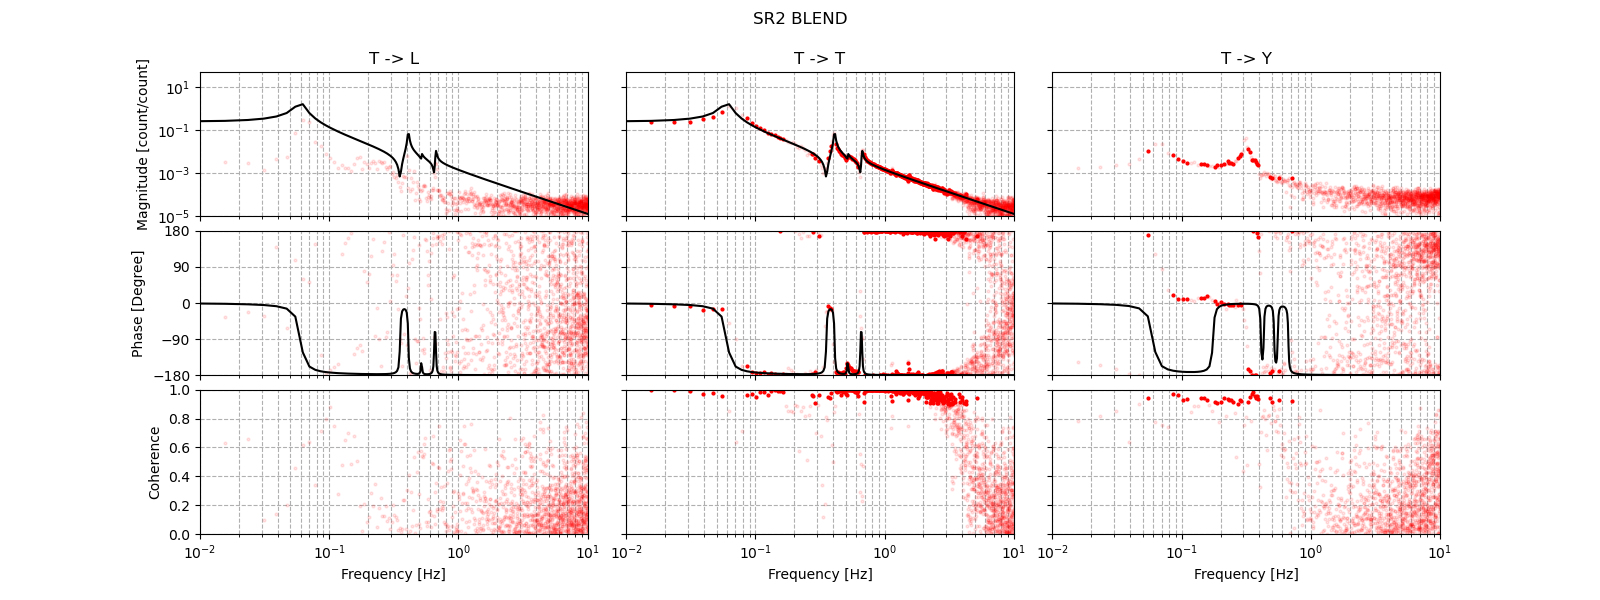
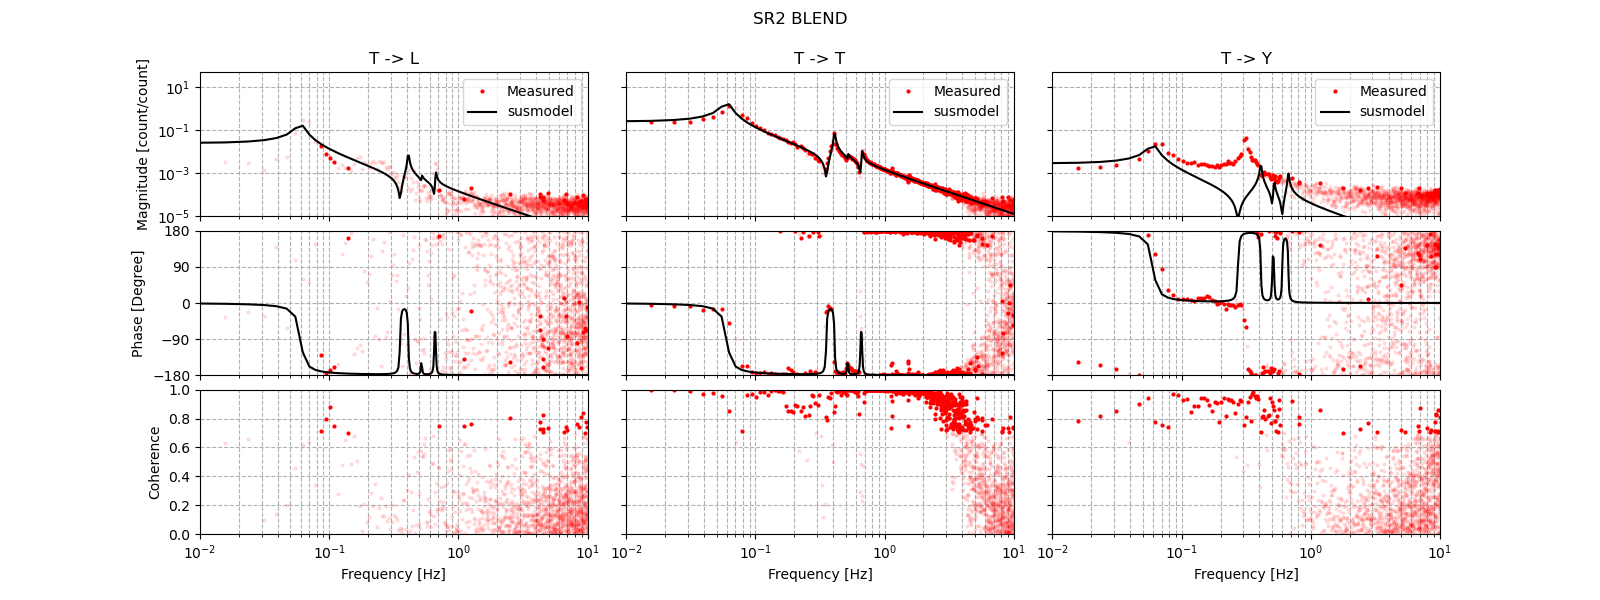
script: bug fix

diff --git a/common/scripts/healthcheck/sysid/tower/params.py b/common/scripts/healthcheck/sysid/tower/params.py
@@ -5,87 +5,11 @@ srm_w4,srm_Q4 = 0.32 ,50
 srm_w1,srm_Q1 = 0.41 ,50
 srm_w2,srm_Q2 = 0.52 ,50
 srm_w3,srm_Q3 = 0.67 ,50
-params = {'SRM_IP_BLEND_LVDTL_EXC':{'L':[[srm_w0, srm_Q0, 9.0e-4],               
-                               [srm_w1, srm_Q1, 3.0e-4],
-                               [srm_w2, srm_Q2, 2.0e-5],
-                               [srm_w3, srm_Q3, 9.0e-5]],
-                          'T':[[srm_w0, srm_Q0, 9.0e-5],
-                               [srm_w1, srm_Q1, 9.0e-6],
-                               [srm_w2, srm_Q2, 2.0e-6],
-                               [srm_w3, srm_Q3, 9.0e-6]],          
-                          'Y':[[srm_w0, srm_Q0,-9.0e-6],
-                               [srm_w1, srm_Q1, 3.0e-10],
-                               [srm_w2, srm_Q2, 2.0e-10],
-                               [srm_w3, srm_Q3, 9.0e-8]]},
-          'SRM_IP_BLEND_LVDTT_EXC':{'L':[[srm_w0, srm_Q0, 9.0e-5],
-                               [srm_w1, srm_Q1, 3.0e-5],
-                               [srm_w2, srm_Q2, 2.0e-6],
-                               [srm_w3, srm_Q3, 9.0e-6]],
-                          'T':[[srm_w0, srm_Q0, 9.0e-4],
-                               [srm_w1, srm_Q1, 3.0e-4],
-                               [srm_w2, srm_Q2, 2.0e-5],
-                               [srm_w3, srm_Q3, 9.0e-5]],          
-                          'Y':[[srm_w0, srm_Q0, -1.0e-5],
-                               [srm_w1, srm_Q1, -1.0e-5],
-                               [srm_w2, srm_Q2, -2.0e-6],
-                               [srm_w3, srm_Q3, -9.0e-6],
-                               [srm_w4, srm_Q4, -9.0e-5]]},                    
-          'SRM_IP_BLEND_LVDTY_EXC':{'L':[[srm_w0, srm_Q0, 9.0e-10],
-                               [srm_w1, srm_Q1, 3.0e-10],
-                               [srm_w2, srm_Q2, 2.0e-10],
-                               [srm_w3, srm_Q3, 9.0e-10]],
-                          'T':[[srm_w0, srm_Q0, 9.0e-10],
-                               [srm_w1, srm_Q1, 3.0e-10],
-                               [srm_w2, srm_Q2, 2.0e-10],
-                               [srm_w3, srm_Q3, 9.0e-10]],          
-                          'Y':[[srm_w0, srm_Q0, 1.0e-10],
-                               [srm_w1, srm_Q1, 1.0e-10],
-                               [srm_w2, srm_Q2, 2.0e-10],
-                               [srm_w3, srm_Q3, 9.0e-10],
-                               [srm_w4, srm_Q4, 1.0e-3]]},
-          'SR2_IP_BLEND_LVDTL_EXC':{'L':[[srm_w0, srm_Q0, 9.0e-4],               
-                               [srm_w1, srm_Q1, 3.0e-4],
-                               [srm_w2, srm_Q2, 2.0e-5],
-                               [srm_w3, srm_Q3, 9.0e-5]],
-                          'T':[[srm_w0, srm_Q0, 9.0e-5],
-                               [srm_w1, srm_Q1, 9.0e-6],
-                               [srm_w2, srm_Q2, 2.0e-6],
-                               [srm_w3, srm_Q3, 9.0e-6]],          
-                          'Y':[[srm_w0, srm_Q0,-9.0e-6],
-                               [srm_w1, srm_Q1, 3.0e-10],
-                               [srm_w2, srm_Q2, 2.0e-10],
-                               [srm_w3, srm_Q3, 9.0e-8]]},
-          'SR2_IP_BLEND_LVDTT_EXC':{'L':[[srm_w0, srm_Q0, 9.0e-5],
-                               [srm_w1, srm_Q1, 3.0e-5],
-                               [srm_w2, srm_Q2, 2.0e-6],
-                               [srm_w3, srm_Q3, 9.0e-6]],
-                          'T':[[srm_w0, srm_Q0, 9.0e-4],
-                               [srm_w1, srm_Q1, 3.0e-4],
-                               [srm_w2, srm_Q2, 2.0e-5],
-                               [srm_w3, srm_Q3, 9.0e-5]],          
-                          'Y':[[srm_w0, srm_Q0, -1.0e-5],
-                               [srm_w1, srm_Q1, -1.0e-5],
-                               [srm_w2, srm_Q2, -2.0e-6],
-                               [srm_w3, srm_Q3, -9.0e-6],
-                               [srm_w4, srm_Q4, -9.0e-5]]},                    
-          'SR2_IP_BLEND_LVDTY_EXC':{'L':[[srm_w0, srm_Q0, 9.0e-10],
-                               [srm_w1, srm_Q1, 3.0e-10],
-                               [srm_w2, srm_Q2, 2.0e-10],
-                               [srm_w3, srm_Q3, 9.0e-10]],
-                          'T':[[srm_w0, srm_Q0, 9.0e-10],
-                               [srm_w1, srm_Q1, 3.0e-10],
-                               [srm_w2, srm_Q2, 2.0e-10],
-                               [srm_w3, srm_Q3, 9.0e-10]],          
-                          'Y':[[srm_w0, srm_Q0, 1.0e-10],
-                               [srm_w1, srm_Q1, 1.0e-10],
-                               [srm_w2, srm_Q2, 2.0e-10],
-                               [srm_w3, srm_Q3, 9.0e-10],
-                               [srm_w4, srm_Q4, 1.0e-3]]},
-          'SRM_IP_IDAMP_L_EXC':{'L':[[srm_w0, srm_Q0, 9.0e-4],               
+params = {'SRM_IP_BLEND_L_EXC':{'L':[[srm_w0, srm_Q0, 9.0e-4],               
                                      [srm_w1, srm_Q1, 3.0e-4],
                                      [srm_w2, srm_Q2, 2.0e-5],
                                      [srm_w3, srm_Q3, 9.0e-5]],
-                                'T':[[srm_w0, srm_Q0, 2.0e-4],
+                                'T':[[srm_w0, srm_Q0, 9.0e-5],
                                      [srm_w1, srm_Q1, 9.0e-6],
                                      [srm_w2, srm_Q2, 2.0e-6],
                                      [srm_w3, srm_Q3, 9.0e-6]],          
@@ -93,7 +17,7 @@ params = {'SRM_IP_BLEND_LVDTL_EXC':{'L':[[srm_w0, srm_Q0, 9.0e-4],
                                      [srm_w1, srm_Q1, 3.0e-10],
                                      [srm_w2, srm_Q2, 2.0e-10],
                                      [srm_w3, srm_Q3, 9.0e-8]]},
-          'SRM_IP_IDAMP_T_EXC':{'L':[[srm_w0, srm_Q0, 9.0e-5],
+          'SRM_IP_BLEND_T_EXC':{'L':[[srm_w0, srm_Q0, 9.0e-5],
                                      [srm_w1, srm_Q1, 3.0e-5],
                                      [srm_w2, srm_Q2, 2.0e-6],
                                      [srm_w3, srm_Q3, 9.0e-6]],
@@ -106,7 +30,7 @@ params = {'SRM_IP_BLEND_LVDTL_EXC':{'L':[[srm_w0, srm_Q0, 9.0e-4],
                                      [srm_w2, srm_Q2, -2.0e-6],
                                      [srm_w3, srm_Q3, -9.0e-6],
                                      [srm_w4, srm_Q4, -9.0e-5]]},                    
-          'SRM_IP_IDAMP_Y_EXC':{'L':[[srm_w0, srm_Q0, 9.0e-10],
+          'SRM_IP_BLEND_Y_EXC':{'L':[[srm_w0, srm_Q0, 9.0e-10],
                                      [srm_w1, srm_Q1, 3.0e-10],
                                      [srm_w2, srm_Q2, 2.0e-10],
                                      [srm_w3, srm_Q3, 9.0e-10]],
@@ -119,6 +43,86 @@ params = {'SRM_IP_BLEND_LVDTL_EXC':{'L':[[srm_w0, srm_Q0, 9.0e-4],
                                      [srm_w2, srm_Q2, 2.0e-10],
                                      [srm_w3, srm_Q3, 9.0e-10],
                                      [srm_w4, srm_Q4, 1.0e-3]]},
+          'SR2_IP_BLEND_L_EXC':{'L':[[srm_w0, srm_Q0, 9.0e-4],               
+                                     [srm_w1, srm_Q1, 3.0e-4],
+                                     [srm_w2, srm_Q2, 2.0e-5],
+                                     [srm_w3, srm_Q3, 9.0e-5]],
+                                'T':[[srm_w0, srm_Q0, 9.0e-5],
+                                     [srm_w1, srm_Q1, 9.0e-6],
+                                     [srm_w2, srm_Q2, 2.0e-6],
+                                     [srm_w3, srm_Q3, 9.0e-6]],          
+                                'Y':[[srm_w0, srm_Q0,-9.0e-6],
+                                     [srm_w1, srm_Q1, 3.0e-10],
+                                     [srm_w2, srm_Q2, 2.0e-10],
+                                     [srm_w3, srm_Q3, 9.0e-8]]},
+          'SR2_IP_BLEND_T_EXC':{'L':[[srm_w0, srm_Q0, 9.0e-5],
+                                     [srm_w1, srm_Q1, 3.0e-5],
+                                     [srm_w2, srm_Q2, 2.0e-6],
+                                     [srm_w3, srm_Q3, 9.0e-6]],
+                                'T':[[srm_w0, srm_Q0, 9.0e-4],
+                                     [srm_w1, srm_Q1, 3.0e-4],
+                                     [srm_w2, srm_Q2, 2.0e-5],
+                                     [srm_w3, srm_Q3, 9.0e-5]],          
+                                'Y':[[srm_w0, srm_Q0, -1.0e-5],
+                                     [srm_w1, srm_Q1, -1.0e-5],
+                                     [srm_w2, srm_Q2, -2.0e-6],
+                                     [srm_w3, srm_Q3, -9.0e-6],
+                                     [srm_w4, srm_Q4, -9.0e-5]]},                    
+          'SR2_IP_BLEND_Y_EXC':{'L':[[srm_w0, srm_Q0, 9.0e-10],
+                                     [srm_w1, srm_Q1, 3.0e-10],
+                                     [srm_w2, srm_Q2, 2.0e-10],
+                                     [srm_w3, srm_Q3, 9.0e-10]],
+                                'T':[[srm_w0, srm_Q0, 9.0e-10],
+                                     [srm_w1, srm_Q1, 3.0e-10],
+                                     [srm_w2, srm_Q2, 2.0e-10],
+                                     [srm_w3, srm_Q3, 9.0e-10]],          
+                                'Y':[[srm_w0, srm_Q0, 1.0e-10],
+                                     [srm_w1, srm_Q1, 1.0e-10],
+                                     [srm_w2, srm_Q2, 2.0e-10],
+                                     [srm_w3, srm_Q3, 9.0e-10],
+                                     [srm_w4, srm_Q4, 1.0e-3]]},
+          'SRM_IP_IDAMP_L_EXC':{'L':[[srm_w0, srm_Q0, 9.0e-4],               
+                                     [srm_w1, srm_Q1, 3.0e-4],
+                                     [srm_w2, srm_Q2, 2.0e-5],
+                                     [srm_w3, srm_Q3, 9.0e-5]],
+                                'T':[[srm_w0, srm_Q0, 2.0e-4],
+                                     [srm_w1, srm_Q1, 9.0e-6],
+                                     [srm_w2, srm_Q2, 2.0e-6],
+                                     [srm_w3, srm_Q3, 9.0e-6]],          
+                                'Y':[[srm_w0, srm_Q0,-9.0e-6],
+                                     [srm_w1, srm_Q1, 3.0e-10],
+                                     [srm_w2, srm_Q2, 2.0e-10],
+                                     [srm_w3, srm_Q3, 9.0e-8]]},
+          'SRM_IP_IDAMP_T_EXC':{'L':[[srm_w0, srm_Q0, 4.0e-4],
+                                     [srm_w1, srm_Q1, 3.0e-5],
+                                     [srm_w2, srm_Q2, 2.0e-6],
+                                     [srm_w3, srm_Q3, 9.0e-6],
+                                     [srm_w4, srm_Q4, 1.0e-5]],                                
+                                'T':[[srm_w0, srm_Q0, 9.0e-4],
+                                     [srm_w1, srm_Q1, 3.0e-4],
+                                     [srm_w2, srm_Q2, 2.0e-5],
+                                     [srm_w3, srm_Q3, 9.0e-5],
+                                     [srm_w4, srm_Q4, 1.0e-5]],                                
+                                'Y':[[srm_w0, srm_Q0, -6.0e-5],
+                                     [srm_w1, srm_Q1, -1.0e-5],
+                                     [srm_w2, srm_Q2, +2.0e-6],
+                                     [srm_w3, srm_Q3, -3.0e-6],
+                                     [srm_w4, srm_Q4, +9.0e-5]]},                    
+          'SRM_IP_IDAMP_Y_EXC':{'L':[[srm_w0, srm_Q0, 9.0e-10],
+                                     [srm_w1, srm_Q1, 3.0e-10],
+                                     [srm_w2, srm_Q2, 2.0e-10],
+                                     [srm_w3, srm_Q3, 9.0e-10],
+                                     [srm_w4, srm_Q4, 1.0e-5]],
+                                'T':[[srm_w0, srm_Q0, 9.0e-10],
+                                     [srm_w1, srm_Q1, 3.0e-10],
+                                     [srm_w2, srm_Q2, 2.0e-10],
+                                     [srm_w3, srm_Q3, 9.0e-10],
+                                     [srm_w4, srm_Q4, 6.0e-5]],          
+                                'Y':[[srm_w0, srm_Q0, 1.0e-10],
+                                     [srm_w1, srm_Q1, 1.0e-10],
+                                     [srm_w2, srm_Q2, 2.0e-10],
+                                     [srm_w3, srm_Q3, 9.0e-10],
+                                     [srm_w4, srm_Q4, 1.5e-3]]},
           'SR2_IP_IDAMP_L_EXC':{'L':[[srm_w0, srm_Q0, 9.0e-4],               
                                      [srm_w1, srm_Q1, 3.0e-4],
                                      [srm_w2, srm_Q2, 2.0e-5],
@@ -145,17 +149,17 @@ params = {'SRM_IP_BLEND_LVDTL_EXC':{'L':[[srm_w0, srm_Q0, 9.0e-4],
                                      [srm_w3, srm_Q3, -9.0e-6],
                                      [srm_w4, srm_Q4, -9.0e-5]]},                    
           'SR2_IP_IDAMP_Y_EXC':{'L':[[srm_w0, srm_Q0, 9.0e-10],
-                                           [srm_w1, srm_Q1, 3.0e-10],
-                                           [srm_w2, srm_Q2, 2.0e-10],
-                                           [srm_w3, srm_Q3, 9.0e-10]],
-                                      'T':[[srm_w0, srm_Q0, 9.0e-10],
-                                           [srm_w1, srm_Q1, 3.0e-10],
-                                           [srm_w2, srm_Q2, 2.0e-10],
-                                           [srm_w3, srm_Q3, 9.0e-10]],          
-                                      'Y':[[srm_w0, srm_Q0, 1.0e-10],
-                                           [srm_w1, srm_Q1, 1.0e-10],
-                                           [srm_w2, srm_Q2, 2.0e-10],
-                                           [srm_w3, srm_Q3, 9.0e-10],
-                                           [srm_w4, srm_Q4, 1.0e-3]]}          
+                                     [srm_w1, srm_Q1, 3.0e-10],
+                                     [srm_w2, srm_Q2, 2.0e-10],
+                                     [srm_w3, srm_Q3, 9.0e-10]],
+                                'T':[[srm_w0, srm_Q0, 9.0e-10],
+                                     [srm_w1, srm_Q1, 3.0e-10],
+                                     [srm_w2, srm_Q2, 2.0e-10],
+                                     [srm_w3, srm_Q3, 9.0e-10]],          
+                                'Y':[[srm_w0, srm_Q0, 1.0e-10],
+                                     [srm_w1, srm_Q1, 1.0e-10],
+                                     [srm_w2, srm_Q2, 2.0e-10],
+                                     [srm_w3, srm_Q3, 9.0e-10],
+                                     [srm_w4, srm_Q4, 1.0e-3]]}          
           
 }

diff --git a/common/scripts/healthcheck/sysid/tower/plot.py b/common/scripts/healthcheck/sysid/tower/plot.py
@@ -41,18 +41,38 @@ def get_tf(_from,_to):
     chname_to = chname_to.format(optic2,stage2,func2,dof2)
     chname_from = chname_from.format(optic1,stage1,dof_exc)    
     return read_tf(fname,chname_to,chname_from)
-    
+
+def blend(lp='high'):
+    w0 = 0.5
+    f0 = w0/(2.0*np.pi)
+    #f0=w0
+    if lp=='high':
+        num = np.array([1,5*f0**1,10*f0**2,       0,      0,      0])*-1
+    else:
+        num = np.array([0,      0,       0,10*f0**3,5*f0**4,1*f0**5])
+    den =     np.array([1,5*f0**1,10*f0**2,10*f0**3,5*f0**4,1*f0**5])
+    blend = control.tf(num,den)
+    #control.bode(blend,Plot=True)
+    #plt.savefig('hoge.png')
+    return blend
 
 def get_fitted_tf(omega_measured,tf_measured,coh_measured,_exc,dof):
     _tf = control.tf(*zpk2tf([],[],0))
-    for i in range(4):
-        w0,Q0,k0 = params[_exc][dof][i]
-        __tf = control.tf(*zpk2tf([],p(w0,Q0),k0))
-        _tf += __tf
-    #
+    print(_exc,dof)    
+    for i in range(5):
+        try:
+            w0,Q0,k0 = params[_exc][dof][i]
+            __tf = control.tf(*zpk2tf([],p(w0,Q0),k0))
+            _tf += __tf            
+        except:
+            pass
+            #
+    if dof not in _exc:
+        _tf = _tf*(blend(lp='low')+blend(lp='high'))
+        #_tf = _tf*(blend(lp='low'))
     mag, phase, omega = _tf.freqresp(omega_measured)
     _w = omega
-    h = mag*np.exp(1j*phase)
+    h = mag*np.exp(1j*phase)#*np.exp(1j*10)
     h = np.squeeze(h)
     return _w,h
 
@@ -61,47 +81,53 @@ def plot(optic,func,exc):
     fig.suptitle('{0} {1}'.format(optic,func,exc))
     plt.subplots_adjust(wspace=0.1,hspace=0.1)
     for i,dof in enumerate(dofs):
-        if func=='BLEND':
-            _dof = 'LVDT'+dof
+        # ------------------------
+        if func=='BLEND': # Fix me
+            __dof = 'LVDT'+dof
         else:
-            _dof = dof
+            __dof = dof
+        # ------------------------
         w,tf, coh = get_tf('{0}_IP_TEST_{1}_EXC'.format(optic,
                                                         exc,func),
                            '{0}_IP_{2}_{1}_IN1'.format(optic,
-                                                       _dof,func))
+                                                       __dof,func))
         w,hor1, coh = get_tf('{0}_IP_TEST_{1}_EXC'.format(optic,
                                                           exc,func),
                              '{0}_IP_{2}_{1}_IN1'.format(optic,
-                                                         _dof,func))
+                                                         __dof,func))
         _w,tf_fit = get_fitted_tf(w,tf,coh,
                                   '{0}_IP_{2}_{1}_EXC'.format(
-                                      optic,_dof,func),dof)
+                                      optic,exc,func),dof)
         _w,h = get_fitted_tf(w,hor1,coh,
                              '{0}_IP_{2}_{1}_EXC'.format(
-                                 optic,_dof,func),dof)
-        idx = np.where(coh>0.9)
-        _idx = np.where(coh<0.9)        
-        ax[0][i].loglog(w[idx],np.abs(hor1[idx]),'ro',markersize=2)
+                                 optic,exc,func),dof)
+        idx = np.where(coh>0.7)
+        _idx = np.where(coh<0.7)        
+        ax[0][i].loglog(w[idx],np.abs(hor1[idx]),'ro',markersize=2,
+                        label='Measured')
         ax[0][i].loglog(w[_idx],np.abs(hor1[_idx]),'ro',alpha=0.1,
                         markersize=2)
-        ax[0][i].loglog(_w,np.abs(h),'k')
+        ax[0][i].loglog(_w,np.abs(h),'k',label='susmodel')
         ax[0][i].set_ylim(1e-5,5e-1)
         ax[0][i].set_ylim(1e-5,5e1)        
         ax[0][i].set_title('{0} -> {1}'.format(exc,dof))
         ax[1][i].semilogx(w[idx],np.rad2deg(np.angle(hor1[idx]))*-1,
-                          'ro',markersize=2)
+                          'ro',markersize=2,label='Measured')
         ax[1][i].semilogx(w[_idx],np.rad2deg(np.angle(hor1[_idx]))*-1,
                           'ro',alpha=0.1,markersize=2)        
         # -1 comes from dtt2hdf's bug???    
-        ax[1][i].semilogx(_w,np.rad2deg(np.angle(h)),'k')
+        ax[1][i].semilogx(_w,np.rad2deg(np.angle(h)),'k',
+                          label='susmodel')
         ax[1][i].set_ylim(-180,180)
         ax[1][i].set_yticks(range(-180,181,90))
-        ax[2][i].semilogx(w[idx],coh[idx],'ro',markersize=2)
+        ax[2][i].semilogx(w[idx],coh[idx],'ro',markersize=2,
+                          label='Measured')
         ax[2][i].semilogx(w[_idx],coh[_idx],'ro',markersize=2,
                           alpha=0.1)
         ax[2][i].set_ylim(0,1)
         ax[2][i].set_xlim(1e-2,1e1)
         [ax[j][i].grid(which='both',linestyle='dashed') for j in range(3)]
+        ax[0][i].legend(loc='upper right')
     [ax[2][i].set_xlabel('Frequency [Hz]') for i in range(3)]
     ax[0][0].set_ylabel('Magnitude [count/count]')
     ax[1][0].set_ylabel('Phase [Degree]')
@@ -112,12 +138,14 @@ def plot(optic,func,exc):
 
 if __name__=='__main__':
     optics = ['SR2','SRM']
+    optics = ['SRM']
     excs = ['L','T','Y']
+    excs = ['T']
     dofs = ['L','T','Y']
     funcs = ['IDAMP','BLEND']
+    funcs = ['IDAMP']
     from params import params
     for optic in optics:
         for func in funcs:
             for exc in excs:
-                print(optic,func,exc)
                 plot(optic,func,exc)
